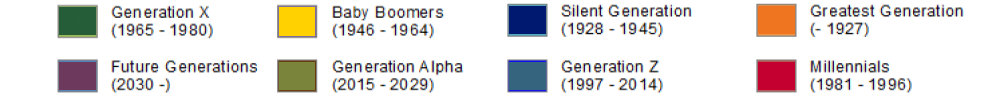
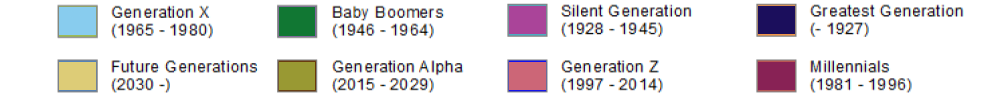
New colors

diff --git a/js/app.js b/js/app.js
@@ -274,28 +274,28 @@ $(function() {
         .attr("fill", function(d) {
             var cyear = (d.k);
             if (cyear < 1928) {
-                creturn = "rgba(239, 117, 33, 1)";
+                creturn = "rgb(27, 14, 92)";
             }
             if (cyear > 1927 && cyear < 1946) {
-                creturn = "rgba(0, 25, 112, 1)";
+                creturn = "rgb(170,68,153)";
             }
             if (cyear > 1945 && cyear < 1965) {
-                creturn = "rgba(255, 209, 0, 1)";
+                creturn = "rgb(17,119,51)";
             }
             if (cyear > 1964 && cyear < 1981) {
-                creturn = "rgba(36, 93, 56, 1)";
+                creturn = "rgb(136,204,238)";
             }
             if (cyear > 1980 && cyear < 1997) {
-                creturn = "rgba(195, 0, 47, 1)";
+                creturn = "rgb(136,34,85)";
             }
             if (cyear > 1996 && cyear < 2015) {
-                creturn = "rgba(53, 100, 126, 1)";
+                creturn = "rgb(204,102,119)";
             }
             if (cyear > 2014 && cyear < 2030) {
-                creturn = "rgba(122, 133, 59, 1)";
+                creturn = "rgb(153,153,51)";
             }
             if (cyear > 2029) {
-                creturn = "rgba(109, 58, 93, 1)";
+                creturn = "rgb(221,204,119)";
             }
             return creturn;
         })
@@ -333,28 +333,28 @@ $(function() {
             .attr("fill", function(d) {
                 var cyear = (d.k);
                 if (cyear < 1928) {
-                    creturn = "rgba(239, 117, 33, 1)";
+                    creturn = "rgb(27, 14, 92)";
                 }
                 if (cyear > 1927 && cyear < 1946) {
-                    creturn = "rgba(0, 25, 112, 1)";
+                    creturn = "rgb(170,68,153)";
                 }
                 if (cyear > 1945 && cyear < 1965) {
-                    creturn = "rgba(255, 209, 0, 1)";
+                    creturn = "rgb(17,119,51)";
                 }
                 if (cyear > 1964 && cyear < 1981) {
-                    creturn = "rgba(36, 93, 56, 1)";
+                    creturn = "rgb(136,204,238)";
                 }
                 if (cyear > 1980 && cyear < 1997) {
-                    creturn = "rgba(195, 0, 47, 1)";
+                    creturn = "rgb(136,34,85)";
                 }
                 if (cyear > 1996 && cyear < 2015) {
-                    creturn = "rgba(53, 100, 126, 1)";
+                    creturn = "rgb(204,102,119)";
                 }
                 if (cyear > 2014 && cyear < 2030) {
-                    creturn = "rgba(122, 133, 59, 1)";
+                    creturn = "rgb(153,153,51)";
                 }
                 if (cyear > 2029) {
-                    creturn = "rgba(109, 58, 93, 1)";
+                    creturn = "rgb(221,204,119)";
                 }
                 return creturn;
             })
@@ -378,28 +378,28 @@ $(function() {
             .attr("fill", function(d) {
                 var cyear = (d.k);
                 if (cyear < 1928) {
-                    creturn = "rgba(239, 117, 33, 1)";
+                    creturn = "rgb(27, 14, 92)";
                 }
                 if (cyear > 1927 && cyear < 1946) {
-                    creturn = "rgba(0, 25, 112, 1)";
+                    creturn = "rgb(170,68,153)";
                 }
                 if (cyear > 1945 && cyear < 1965) {
-                    creturn = "rgba(255, 209, 0, 1)";
+                    creturn = "rgb(17,119,51)";
                 }
                 if (cyear > 1964 && cyear < 1981) {
-                    creturn = "rgba(36, 93, 56, 1)";
+                    creturn = "rgb(136,204,238)";
                 }
                 if (cyear > 1980 && cyear < 1997) {
-                    creturn = "rgba(195, 0, 47, 1)";
+                    creturn = "rgb(136,34,85)";
                 }
                 if (cyear > 1996 && cyear < 2015) {
-                    creturn = "rgba(53, 100, 126, 1)";
+                    creturn = "rgb(204,102,119)";
                 }
                 if (cyear > 2014 && cyear < 2030) {
-                    creturn = "rgba(122, 133, 59, 1)";
+                    creturn = "rgb(153,153,51)";
                 }
                 if (cyear > 2029) {
-                    creturn = "rgba(109, 58, 93, 1)";
+                    creturn = "rgb(221,204,119)";
                 }
                 return creturn;
             });
